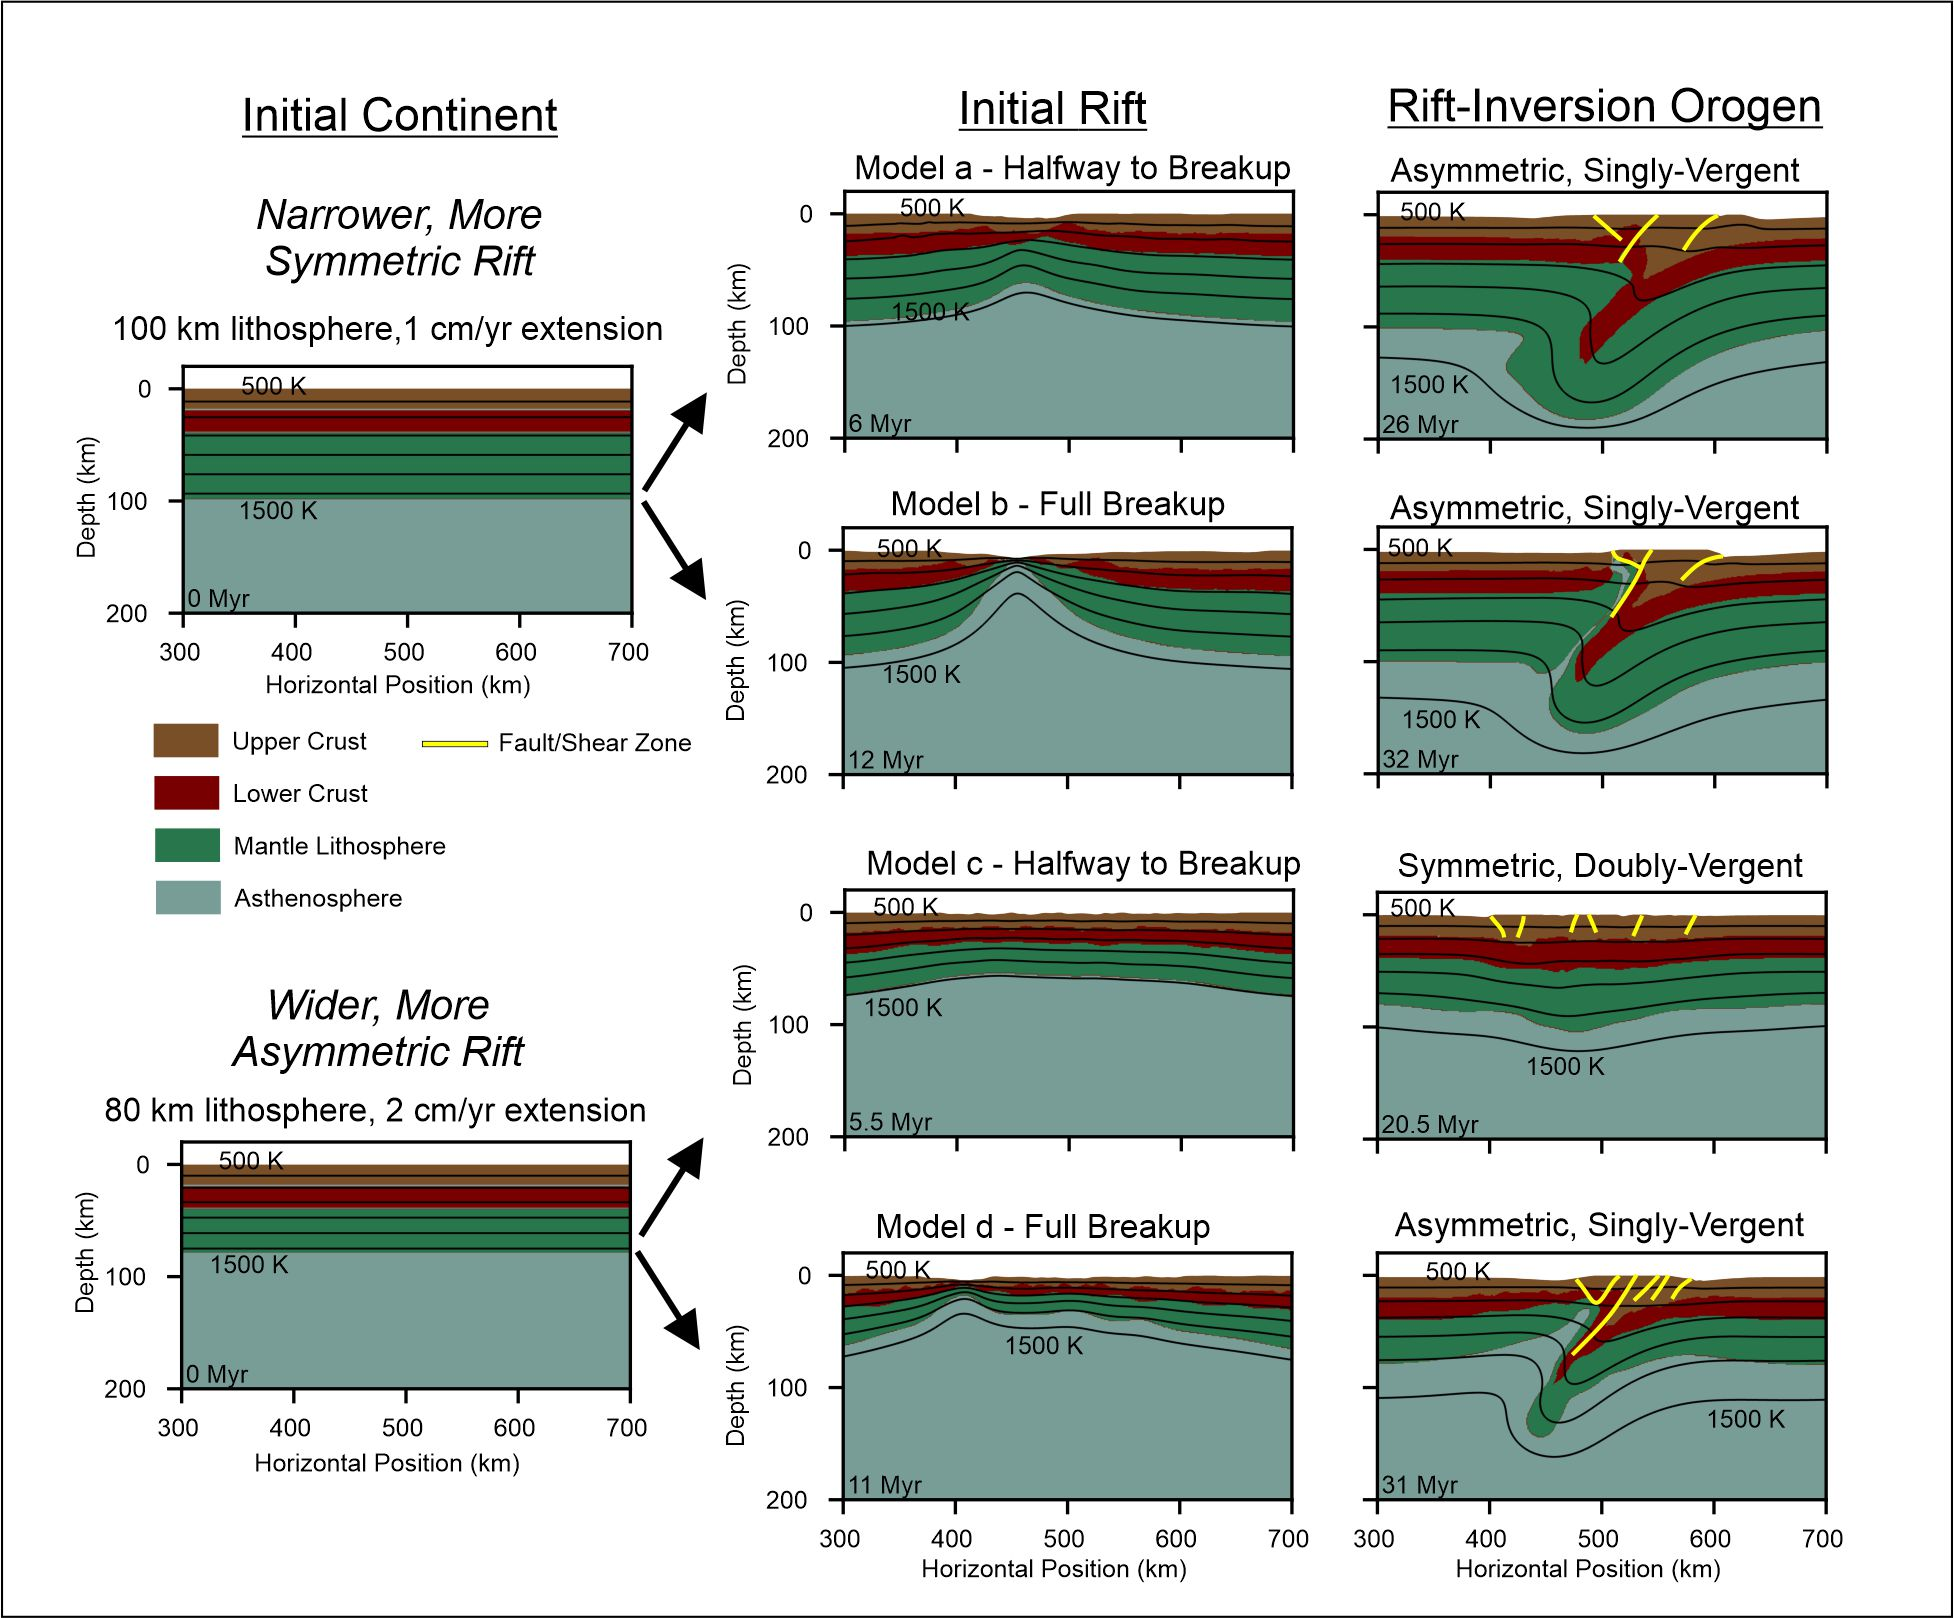
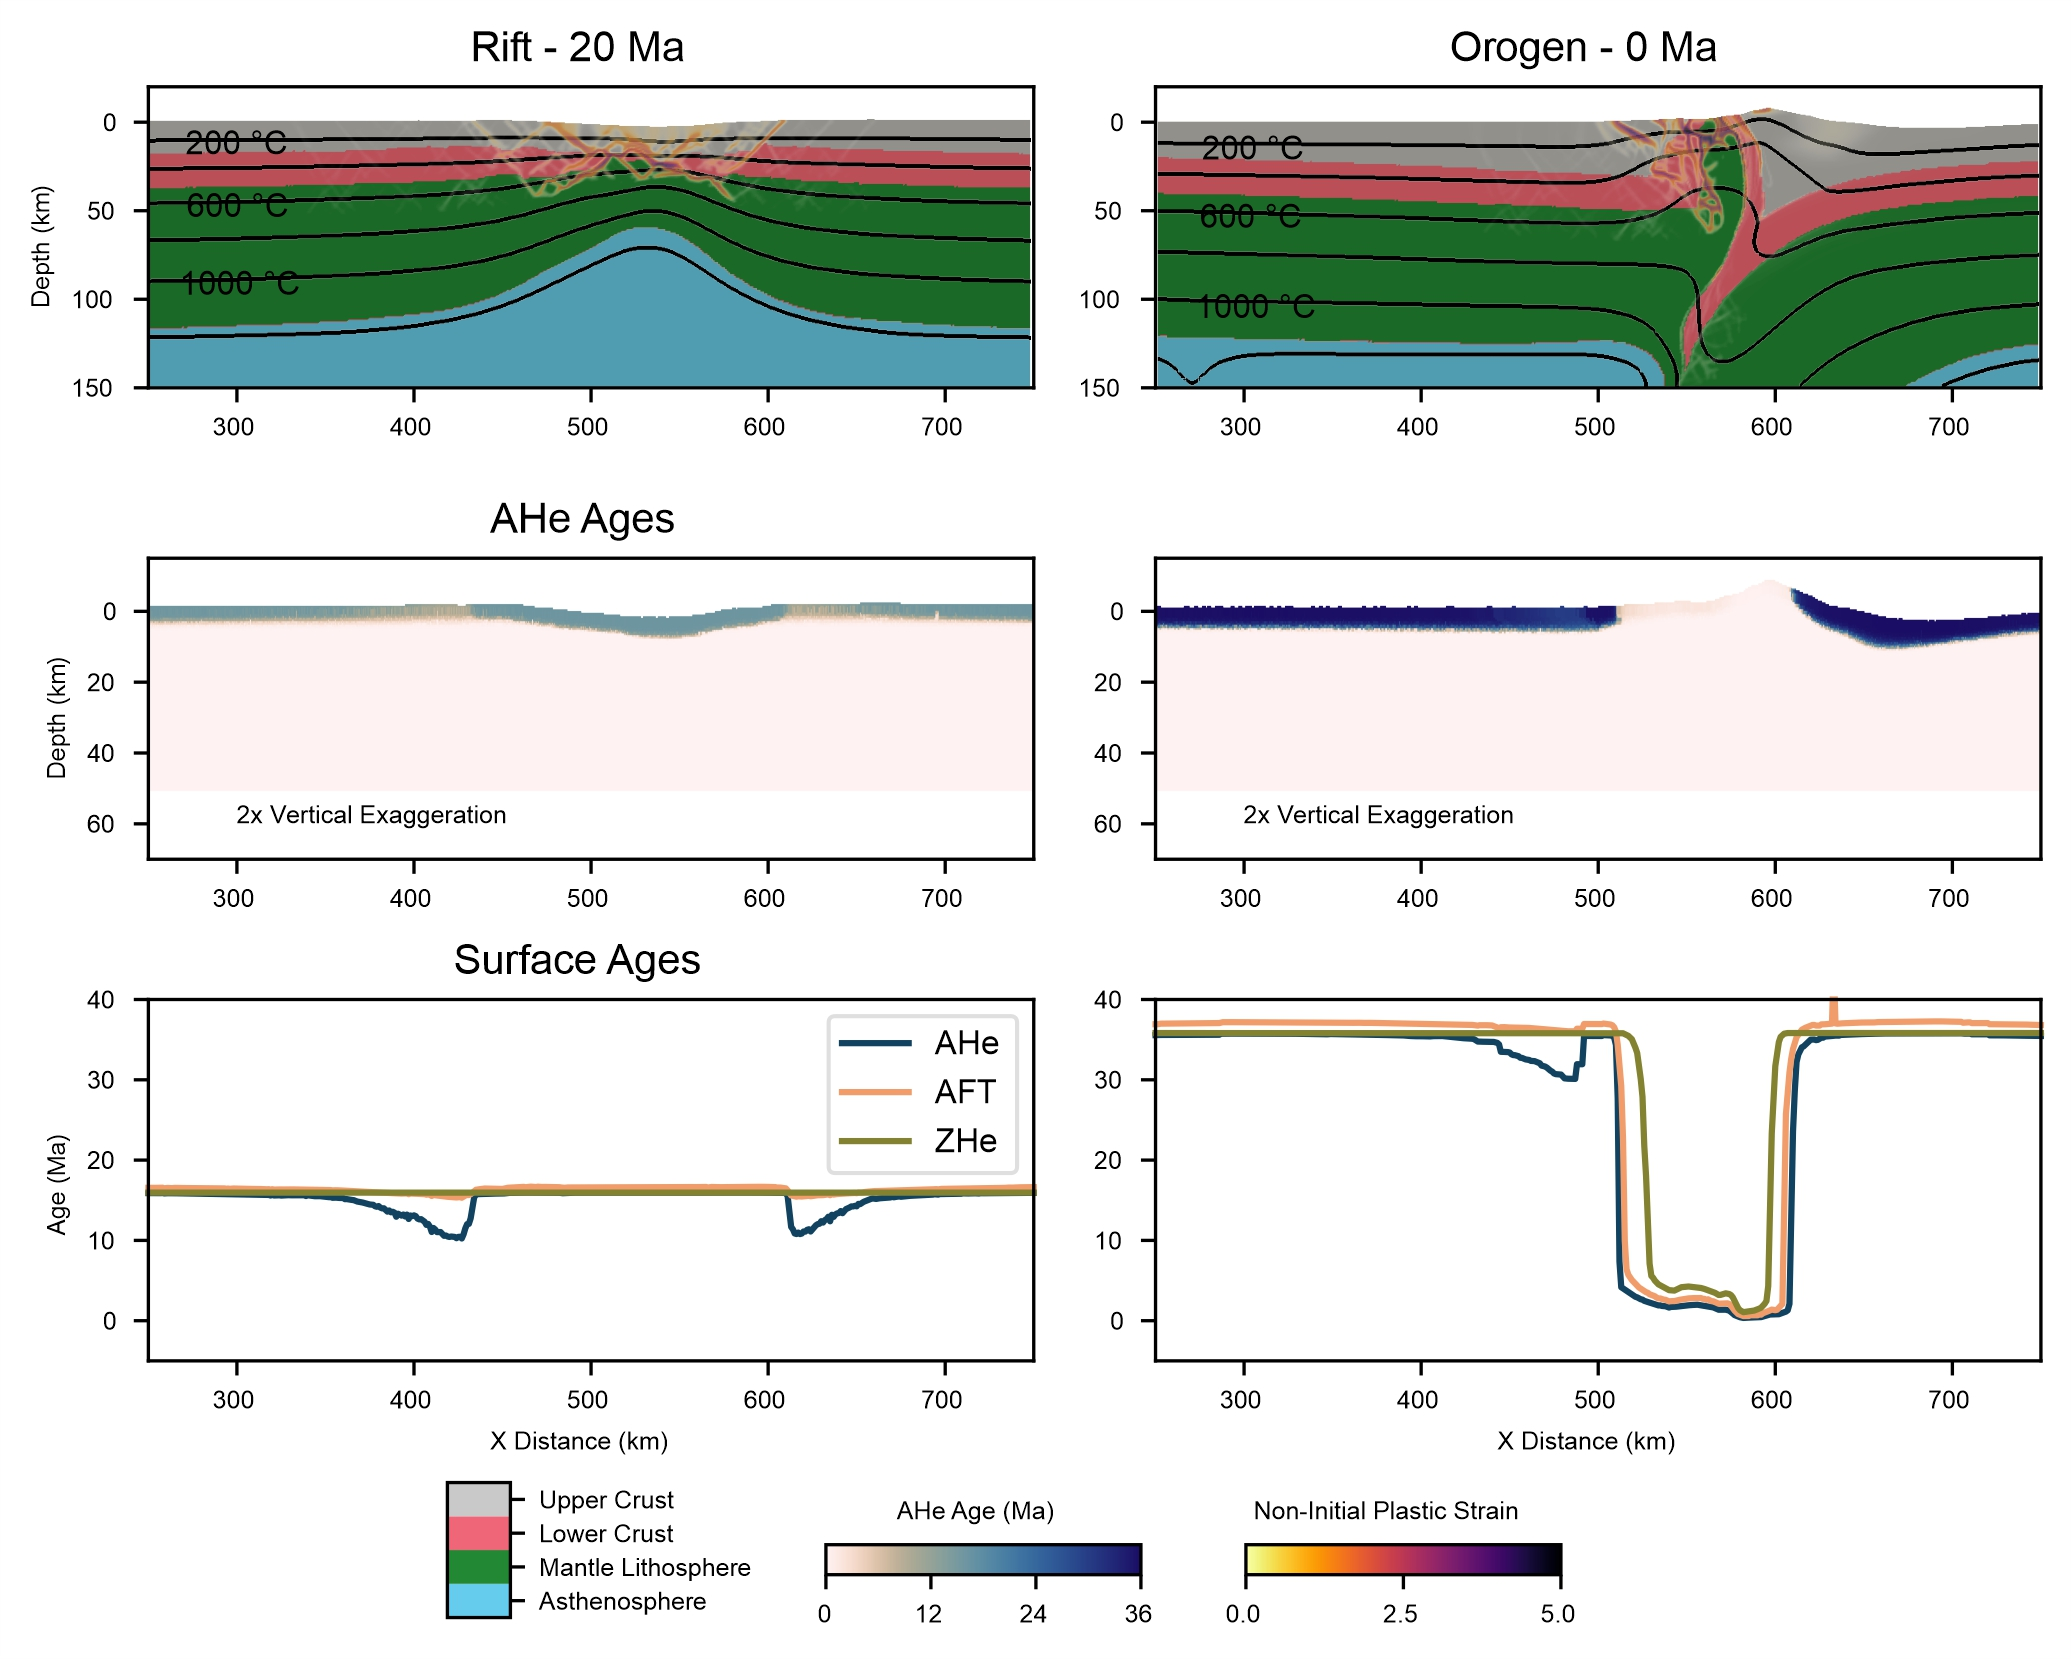
Update research page

diff --git a/research.md b/research.md
@@ -1,48 +1,38 @@
 ---
-title: "Research"
-layout: splash
+layout: single
+classes: wide
+author_profile: true
+title: Research
 header:
   overlay_image: "/photos/zircon.png"
-
-feature_row:
-  - image_path: photos/oulmes.jpg
-    title: "Impact of Relict Basins on Collisional Mountain Building"
-    excerpt: "Continental collisions result in the highest topography on Earth and exert a first-order influence on erosion, biodiversity, magmatism, and mantle dynamics. Although both ancient and modern collisions contain similar structural components, their evolution is also strongly controlled by features that are specific to individual mountain belts, including the pre-collisional basins that are closed during mountain building. My observational research on collsiional mountain belts focuses on using the rock record, including geochemical and geochronlogic tools, to reconstruct now-closed basins and assess their impact on mountain belt evolution in locations ranging from the Greater Caucasus to the Moroccan Atlas and Appalachians."
-
-
-feature_row3:
-  - image_path: photos/geochem.jpg
-    title: "Tectonic Geochemistry of Magmatic Rocks"
-    excerpt: "Geochemistry provides a powerful means of the petrogenesis of igneous rocks and linking their formation to tectonic setting. Unfortunately, there is rarely a unique tectonic setting corresponding to a particular geochemical signature, which can lead to uncritical use of existing geochemical frameworks (i.e., tectonic discrimination diagrams) or wholesale rejection of the ability to use geochemistry to assess tectonics. My research aims to take advantage of modern data science and data availability to provide a more nuanced approach to linking geochemical data with other observational data and modeling studies in order to better understand tectonic processes.
-<br><br>**Related Publications**<br><br>
-Vasey, D.A., Cowgill, E., and Cooper, K.M., 2021, A Preliminary Framework for Magmatism in Modern Continental Back-Arc Basins and Its Application to the Triassic-Jurassic Tectonic Evolution of the Caucasus: Geochemistry, Geophysics, Geosystems, v. 22, e2020GC009490, doi:[10.1029/2020GC009490](https://doi.org/10.1029/2020GC009490).
-<br><br>**Python Code**<br><br>
-[Scripts for Geologic Data Analysis (Geoscripts)](https://github.com/dyvasey/geoscripts) [![DOI](https://zenodo.org/badge/334745753.svg)](https://zenodo.org/badge/latestdoi/334745753)"
-
-feature_row2:
-  - image_path: photos/model.jpg
-    title: "Geodynamic Modeling of Continental Rift Inversion"
-    excerpt: "It is widely understood that inversion of extensional structures plays a major role in guiding and localizing deformation during collisional orogenesis. Although considerable insights have been gleaned from geodynamic numerical modeling of both extensional and compressional systems, relatively little work has explored the degree to which variations in extensional basin structure might systematically change the structure of the orogen resulting from basin inversion. My work seeks to systematically examine the impact of continental rift width, symmetry, and age on the first-order structure of the rift inversion orogens using the Advanced Solver for Problems in Earth's ConvecTion (ASPECT) from the Computational Infrastructure for Geodyanmics (CIG).
-<br><br>**Related Publications**<br><br>
-Zwaan, F., Brune, S., Glerum, A., **Vasey, D.A.**, Naliboff, J.B., Manatschal, G., and Gaucher, E., 2025, Rift-inversion orogens are potential hotspots for natural H2 generation. Science Advances, v. 11, no. 8, eadr3418, doi:[10.1126/sciadv.adr3418] <br> <br>
-Vasey, D.A., Naliboff, J.B., Cowgill, E., Brune, S., Glerum, A., and Zwaan, F., 2024, Impact of rift history on the structural style of intracontinental rift-inversion orogens. Geology, v. 52, no. 6, 429–434, doi:[10.1130/G51489.1](https://doi.org/10.1130/G51489.1)
-<br><br>**Project Code and Documentation**<br><br>
-[Code and Documentation of ASPECT Rift Inversion Project](https://github.com/dyvasey/riftinversion)"
-
 ---
+## Impact of Relict Basins on Collisional Mountain Building
+![Western Moroccan Meseta](/photos/oulmes.jpg){: .align-left width="500"}
+Continental collisions result in the highest topography on Earth and exert a first-order influence on erosion, biodiversity, magmatism, and mantle dynamics. Although both ancient and modern collisions contain similar structural components, their evolution is also strongly controlled by features that are specific to individual mountain belts, including the pre-collisional basins that are closed during mountain building. My observational research on collisional mountain belts focuses on using the rock record, including geochemical and geochronlogic tools, to reconstruct now-closed basins and assess their impact on mountain belt evolution in locations ranging from the Greater Caucasus to the Moroccan Atlas and Appalachians.
 
-{% include feature_row type="left" %}
-
-<div class="pub-block" markdown="1">**Selected Publications** <br>
-
+### Selected Publications
 Vasey, D.A., Gouiza, M., Pomeroy, J.T., and VanTongeren, J.A., *in review*, The Western Moroccan Meseta as a transient intra-rift high within the Central Atlantic rift system: Tectonics
 
 Vasey, D.A., Cowgill, E., VanTongeren, J.A., and Anderson, C.O., 2025, Relict back-arc basin crustal structure in the western Greater Caucasus, Georgia: Geochemistry, Geophysics, Geosystems, v. 25, no. 5, e2024GC012036, doi:[10.1029/2024GC012036](https://doi.org/10.1029/2024GC012036)
 
 Vasey, D.A., Garcia, L., Cowgill, E., Trexler, C.C., and Godoladze, T., 2024, Episodic evolution of a protracted convergent margin revealed by detrital zircon geochronology in the Greater Caucasus: Basin Research, v. 36, no. 1, e12825, doi:[10.1111/bre.12825](https://doi.org/10.1111/bre.12825)
 
-</div>
+## Bridging Geodynamic Models and Geologic Observations
+![Geodynamic Model](/photos/model.jpg){: .align-right width="500"}
+Geodynamic numerical models have greatly increased in sophistication in recent years and allow quantitative, high-resolution simulation of tectonic processes at temporal and spatial scales that are otherwise inaccessible. However, the applicability of such models to real-world settings is hampered by the difficulty of validating the many unconstrained model parameters against observational data. My research uses geodynamic numerical models of collisional mountain building on million-year timescales, outputs the thermal evolution and surface processes active within the model mountain belt, and predicts synthetic datsets (e.g., thermochronometric ages, sedimentary basins, structural architecture, melting) that can be directly compared with real-world data to validate the geodynamic inputs for the models.
 
-{% include feature_row id="feature_row2" type="right" %}
+### Selected Publications
+Vasey, D.A., Scully, P.M., Naliboff, J.B., and Brune, S., 2026, Technical note: Geodynamic Thermochronology (GDTchron) – A Python package to calculate low-temperature thermochronometric ages from geodynamic numerical models. Geochronology, v. 8, 209–222, doi:[10.5194/gchron-8-209-2026](https://doi.org/10.5194/gchron-8-209-2026)
 
-{% include feature_row id="feature_row3" type="left" %}
+Vasey, D.A., Naliboff, J.B., Cowgill, E., Brune, S., Glerum, A., and Zwaan, F., 2024, Impact of rift history on the structural style of intracontinental rift-inversion orogens. Geology, v. 52, no. 6, 429–434, doi:[10.1130/G51489.1](https://doi.org/10.1130/G51489.1)
+
+## Mountain Building and Geologic Resources
+![Nashoba Terrane](/photos/nashoba.jpg){: .align-left width="500"}
+Redistribution of mass and changes in pressure and temperature during collisional mountain building present ideal conditions for the chemical reactions and fluid flow needed to concentrate resources of economic value. However, while numerous resources are recognized in such mountain belts, the tectonic controls on their formation still remain poorly understood. My research seeks to use observational and modeling approaches to better understand where resources ranging from graphite to natural hydrogen would be expected to concentrate depending on the structural and thermal evolution of mountain belts.
+
+### Selected Publications
+Zwaan, F., Brune, S., Glerum, A., Vasey, D.A., Naliboff, J.B., Manatschal, G., and Gaucher, E., 2026, The impact of erosion efficiency on rift-inversion orogen evolution: Implications for serpentinization-derived natural H2 resources. Journal of Geophysical Research: Solid Earth.
+
+Zwaan, F., Brune, S., Glerum, A., Vasey, D.A., Naliboff, J.B., Manatschal, G., and Gaucher, E., 2025, Rift-inversion orogens are potential hotspots for natural H2 generation. Science Advances, v. 11, no. 8, eadr3418, https://doi.org/10.1126/sciadv.adr3418
+
+Yao, J., Castro, A., Roberts, N.M., Wolfe, O., Brunet, I., and Vasey, D.A., 2023, Phase equilibria evidence for intermediate P/T metamorphism in the Nashoba terrane and implications for Acadian tectonics in Ganderia. Lithosphere. v. 2023, no. 1, lithosphere_2023_105, https://doi.org/10.2113/2023/lithosphere_2023_105.
